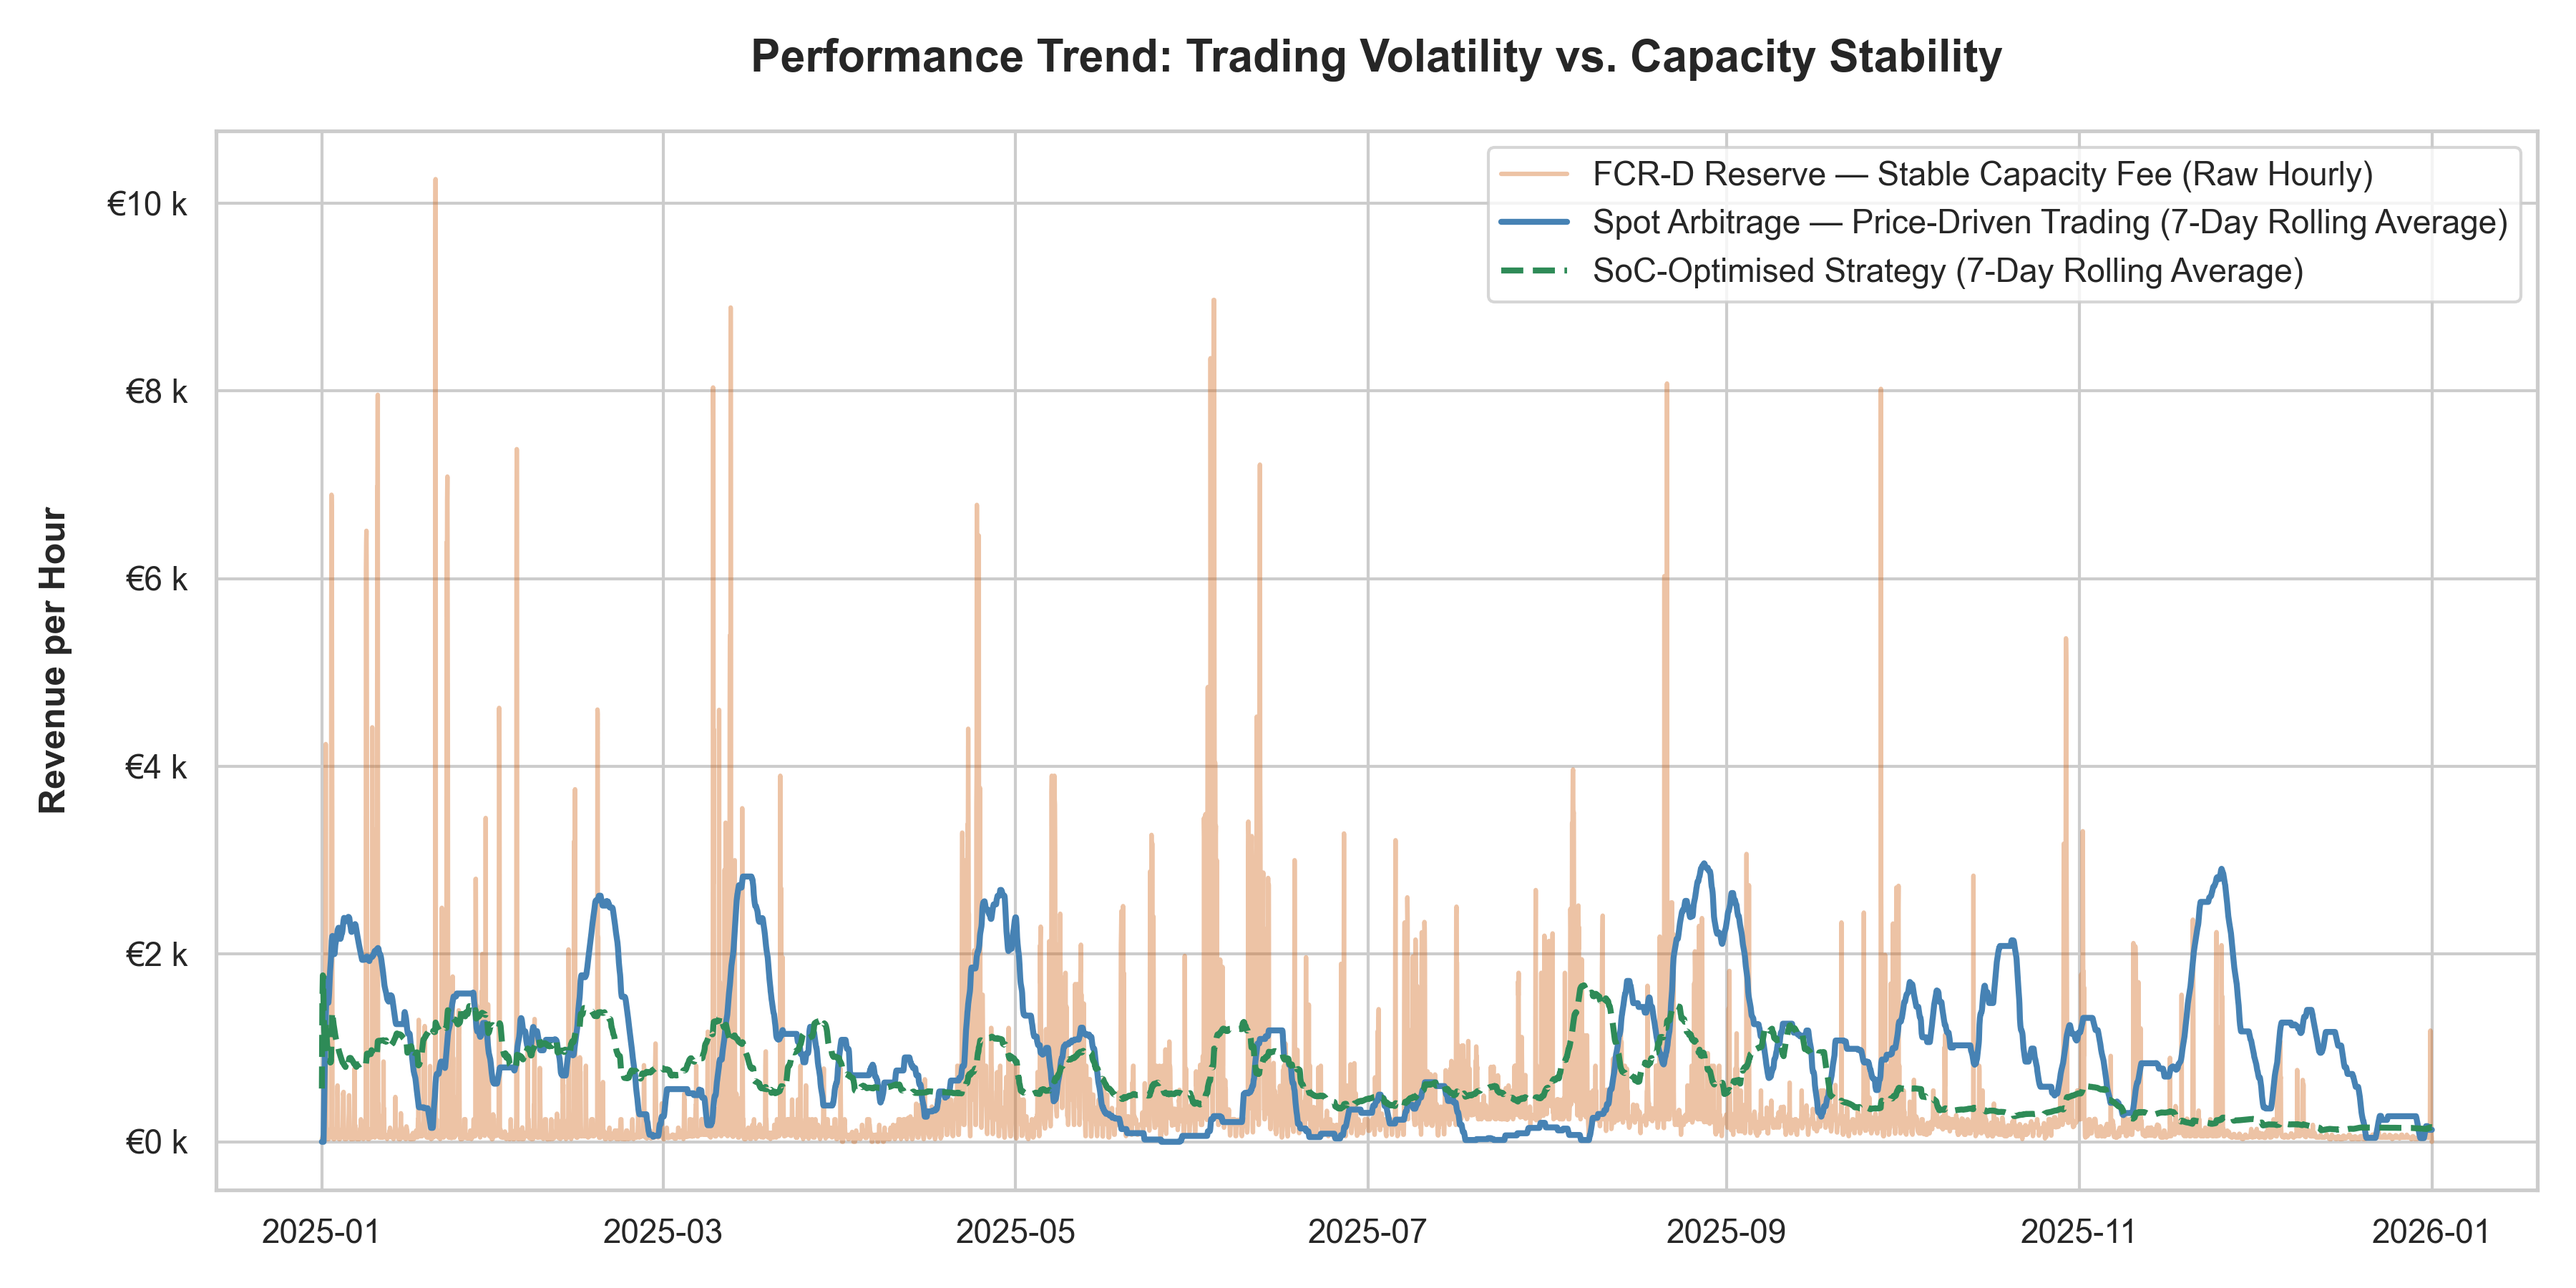
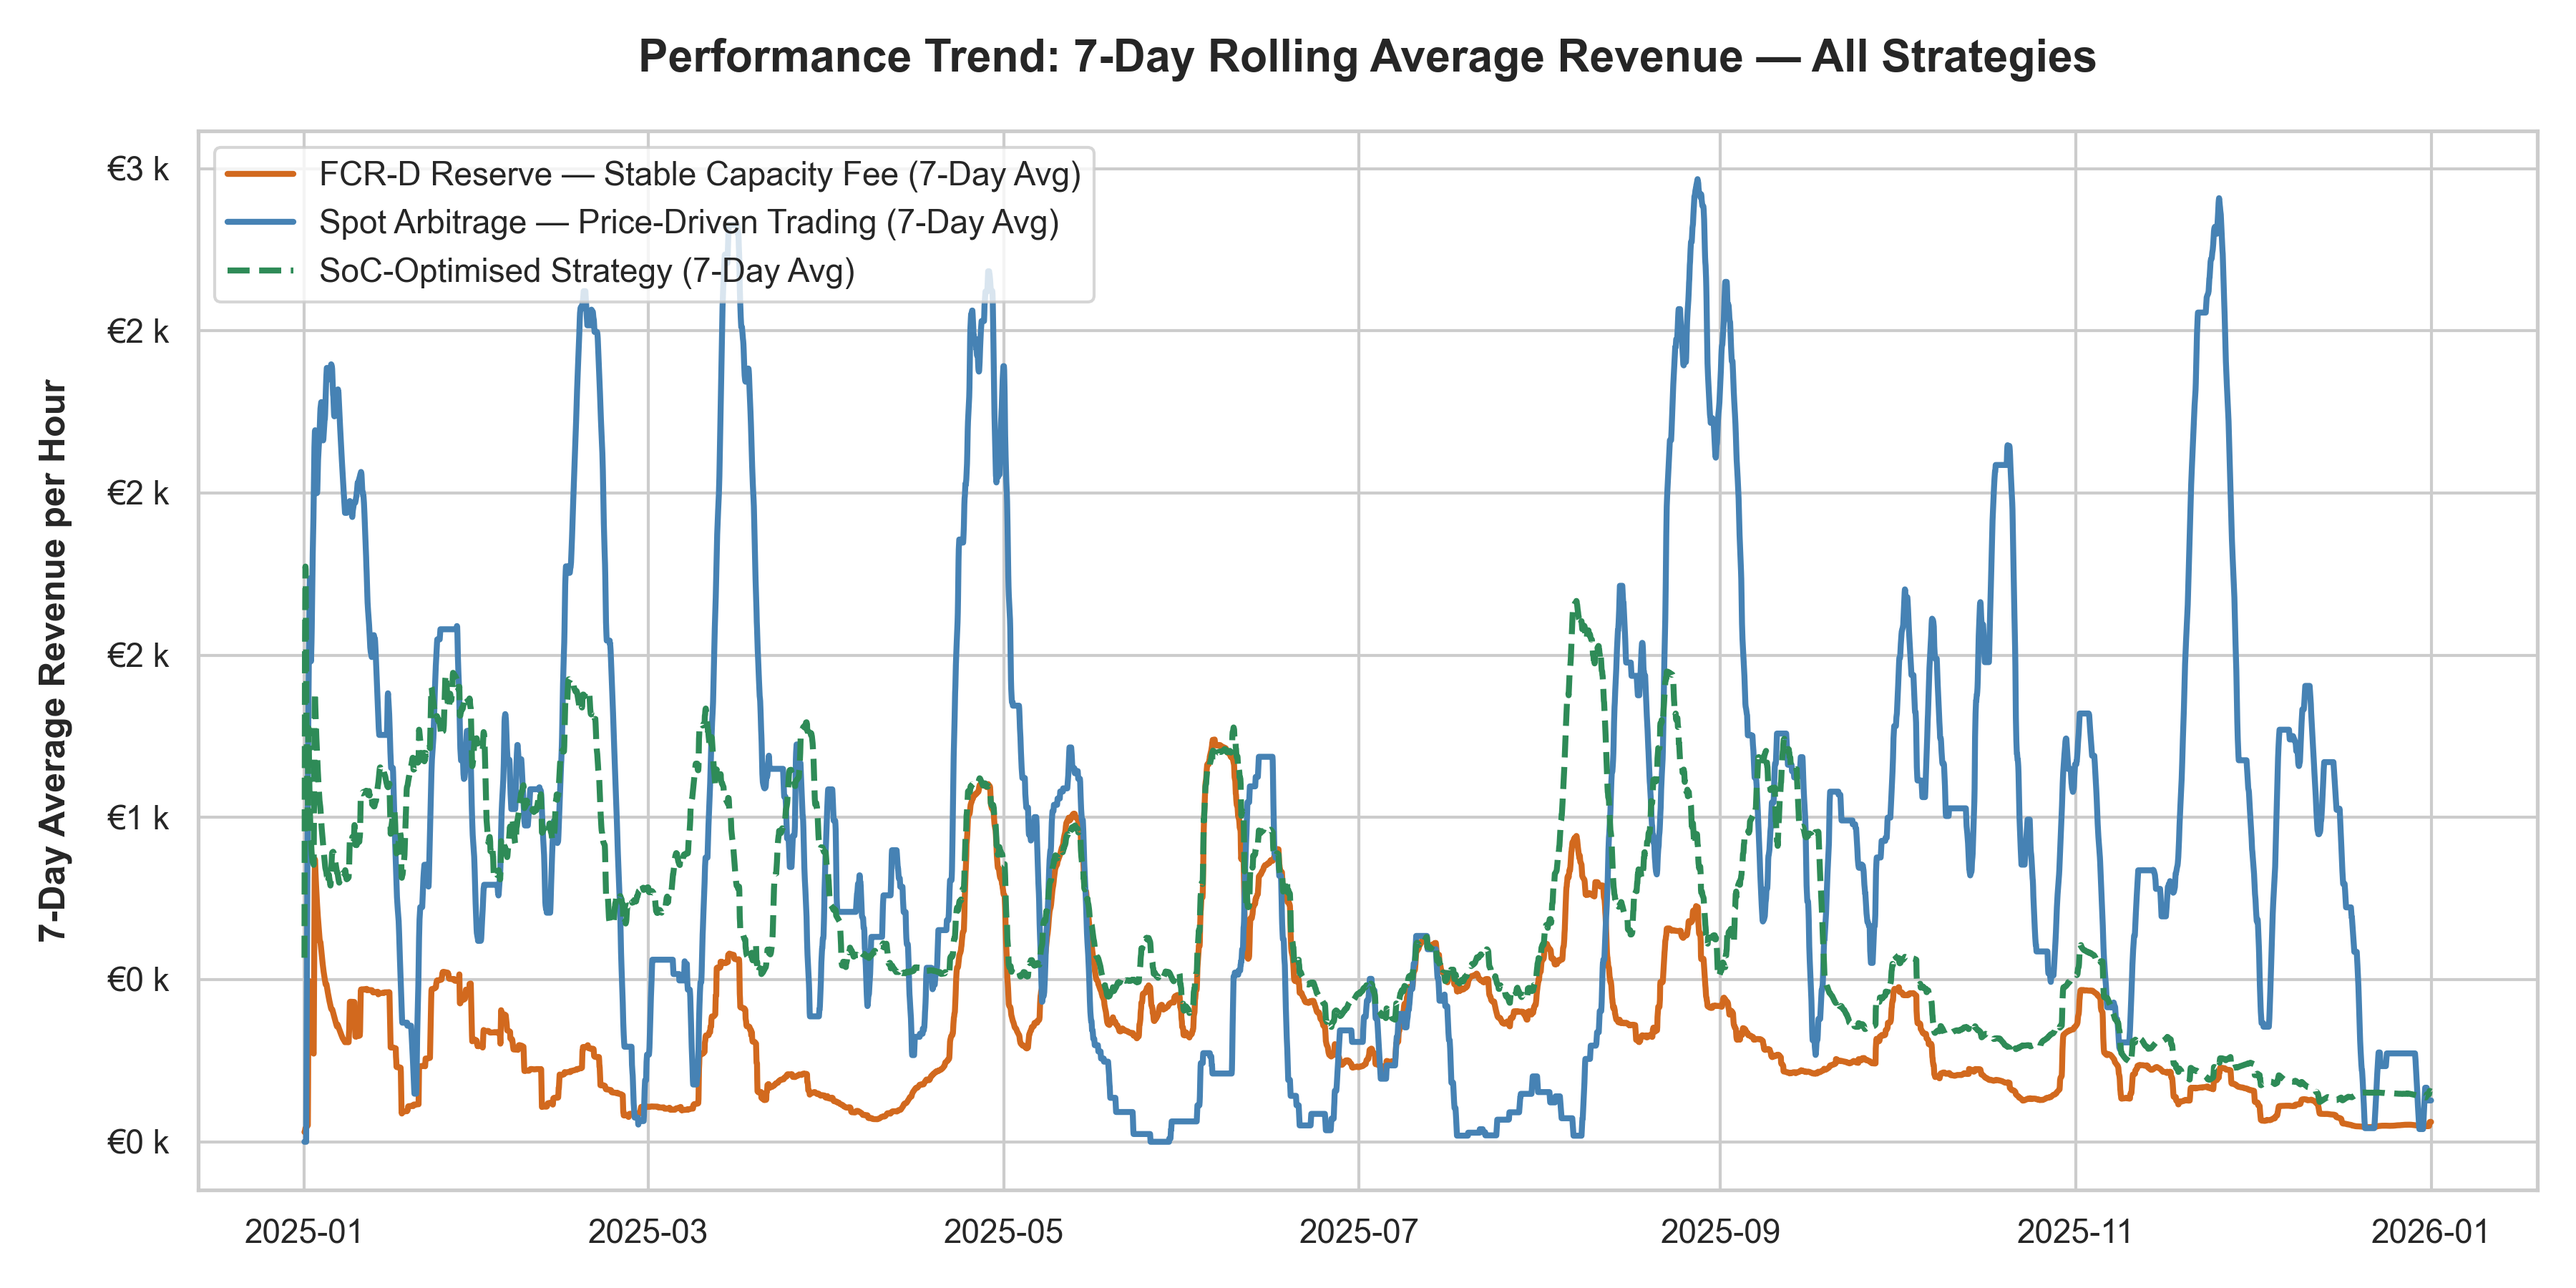
Polishing

diff --git a/data_analytics.py b/data_analytics.py
@@ -314,28 +314,32 @@ def chart_cumulative(df_prices, df_sim):
 def chart_trend(df_prices, df_sim):
     print("   Creating: BESS_Strategy_Trend_2025.png")
     df_m = df_prices[["Revenue_Spot_EUR", "Revenue_FCR_EUR"]].copy() / 1_000_000
-    # min_periods=1 ensures curve starts Jan 1, not Jan 8
-    spot_smooth = df_m["Revenue_Spot_EUR"].rolling(
-        window=24 * 7, min_periods=1).mean()
+
+    WINDOW = 24 * 7   # 168 hours = 7 days
+    # All three series use the same 7-day rolling average so they are
+    # directly comparable — min_periods=1 ensures the curve starts Jan 1
+    fcr_smooth  = df_m["Revenue_FCR_EUR"].rolling(window=WINDOW, min_periods=1).mean()
+    spot_smooth = df_m["Revenue_Spot_EUR"].rolling(window=WINDOW, min_periods=1).mean()
 
     fig, ax = plt.subplots(figsize=(12, 6))
-    ax.plot(df_m.index, df_m["Revenue_FCR_EUR"],
-            color="#D2691E", alpha=0.4,
-            label="FCR-D Reserve — Stable Capacity Fee (Raw Hourly)")
+
+    ax.plot(fcr_smooth.index, fcr_smooth,
+            color="#D2691E", linewidth=2,
+            label="FCR-D Reserve — Stable Capacity Fee (7-Day Avg)")
     ax.plot(spot_smooth.index, spot_smooth,
             color="#4682B4", linewidth=2,
-            label="Spot Arbitrage — Price-Driven Trading (7-Day Rolling Average)")
+            label="Spot Arbitrage — Price-Driven Trading (7-Day Avg)")
 
     if not df_sim.empty and "Revenue_EUR" in df_sim.columns:
         soc_smooth = (df_sim["Revenue_EUR"].clip(lower=0) / 1_000_000
-                      ).rolling(window=24 * 7, min_periods=1).mean()
+                      ).rolling(window=WINDOW, min_periods=1).mean()
         ax.plot(soc_smooth.index, soc_smooth,
                 color="#2E8B57", linewidth=2, linestyle="--",
-                label="SoC-Optimised Strategy (7-Day Rolling Average)")
+                label="SoC-Optimised Strategy (7-Day Avg)")
 
     ax.yaxis.set_major_formatter(mticker.FuncFormatter(fmt_thousands))
-    ax.set_ylabel("Revenue per Hour", fontweight="bold", labelpad=12)
-    ax.set_title("Performance Trend: Trading Volatility vs. Capacity Stability",
+    ax.set_ylabel("7-Day Average Revenue per Hour", fontweight="bold", labelpad=12)
+    ax.set_title("Performance Trend: 7-Day Rolling Average Revenue — All Strategies",
                  fontsize=15, fontweight="bold", pad=20)
     ax.legend()
     plt.tight_layout()
@@ -798,10 +802,25 @@ def run_analytics():
 
     print("   Building Investment Model sheet...")
     base_irr, base_npv, base_payback = write_investment_sheet(wb, revenue_y1)
-    irr_display = f"{base_irr:.2%}" if not math.isnan(base_irr) else "N/A"
-    npv_display = f"€{base_npv:,.0f}"
-    pay_display = f"{base_payback:.1f} yrs" if base_payback != float("inf") else "N/A"
-    print(f"   → IRR: {irr_display}  |  NPV: {npv_display}  |  Payback: {pay_display}")
+
+    # Operational estimate (−20% haircut) — computed inline to match dashboard
+    _rev_ops = revenue_y1 * 0.80
+    _p       = INV.copy()
+    _cfs_ops = [-_p["capex_eur"]] + build_cashflows(_rev_ops, _p)["Free_Cashflow"].tolist()
+    _irr_ops = xirr(_cfs_ops)
+    _npv_ops = npv(_p["wacc"], _cfs_ops)
+    _pay_ops = payback_years(_cfs_ops)
+
+    irr_m = f"{base_irr:.2%}" if not math.isnan(base_irr) else "N/A"
+    npv_m = f"€{base_npv:,.0f}"
+    pay_m = f"{base_payback:.1f} yrs" if base_payback != float("inf") else "N/A"
+    irr_o = f"{_irr_ops:.2%}" if not math.isnan(_irr_ops) else "N/A"
+    npv_o = f"€{_npv_ops:,.0f}"
+    pay_o = f"{_pay_ops:.1f} yrs" if _pay_ops != float("inf") else "N/A"
+
+    print(f"   → Model max  (perfect foresight):  IRR {irr_m}  |  NPV {npv_m}  |  Payback {pay_m}")
+    print(f"   → Ops est.   (−20% haircut):       IRR {irr_o}  |  NPV {npv_o}  |  Payback {pay_o}")
+    print(f"      ↑ Dashboard and Investment Model sheet show the operational estimate")
 
     print("   Building Scenarios sheet...")
     write_scenarios_sheet(wb, revenue_y1)

diff --git a/data_retrieval_fingrid.py b/data_retrieval_fingrid.py
@@ -8,7 +8,7 @@ Why ENTSO-E for spot prices?
   Fingrid's FAQ explicitly states they cannot publish hourly spot prices as
   the data is not owned by them. Dataset 245 on Fingrid is the wind power
   generation FORECAST in MW (15-min resolution), not €/MWh prices — using
-  it as a price produced fictional revenues of €57 M vs a realistic ~€1–3 M.
+  it as a price produced fictional revenues of €57 M vs a realistic ~€1-3 M.
 
 Setup (one-time):
   1. Register at https://transparency.entsoe.eu
@@ -19,8 +19,8 @@ Setup (one-time):
   5. pip install entsoe-py  (or add to requirements.txt)
 
 Finnish day-ahead spot prices (FI bidding zone) for 2025:
-  Typical range: −10 to ~300 €/MWh on normal days; spikes to ~1,000 €/MWh
-  during extreme cold-snap events. Median typically €30–80 €/MWh.
+  Typical range: -10 to ~300 €/MWh on normal days; spikes to ~1,000 €/MWh
+  during extreme cold-snap events. Median typically €30-80 €/MWh.
   If you see a median of >500, you are using the wrong data source.
 
 Physical model: 30 MW / 36 MWh BESS  (Finland)
